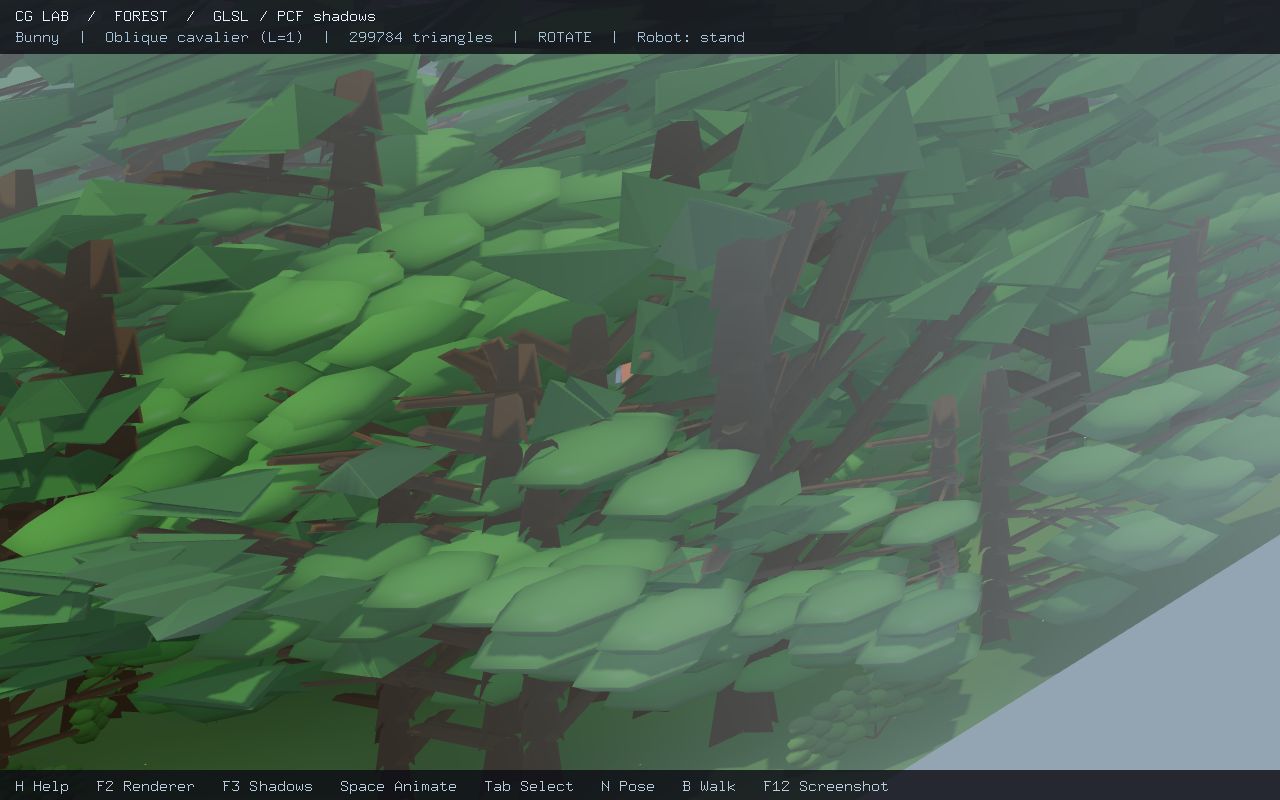
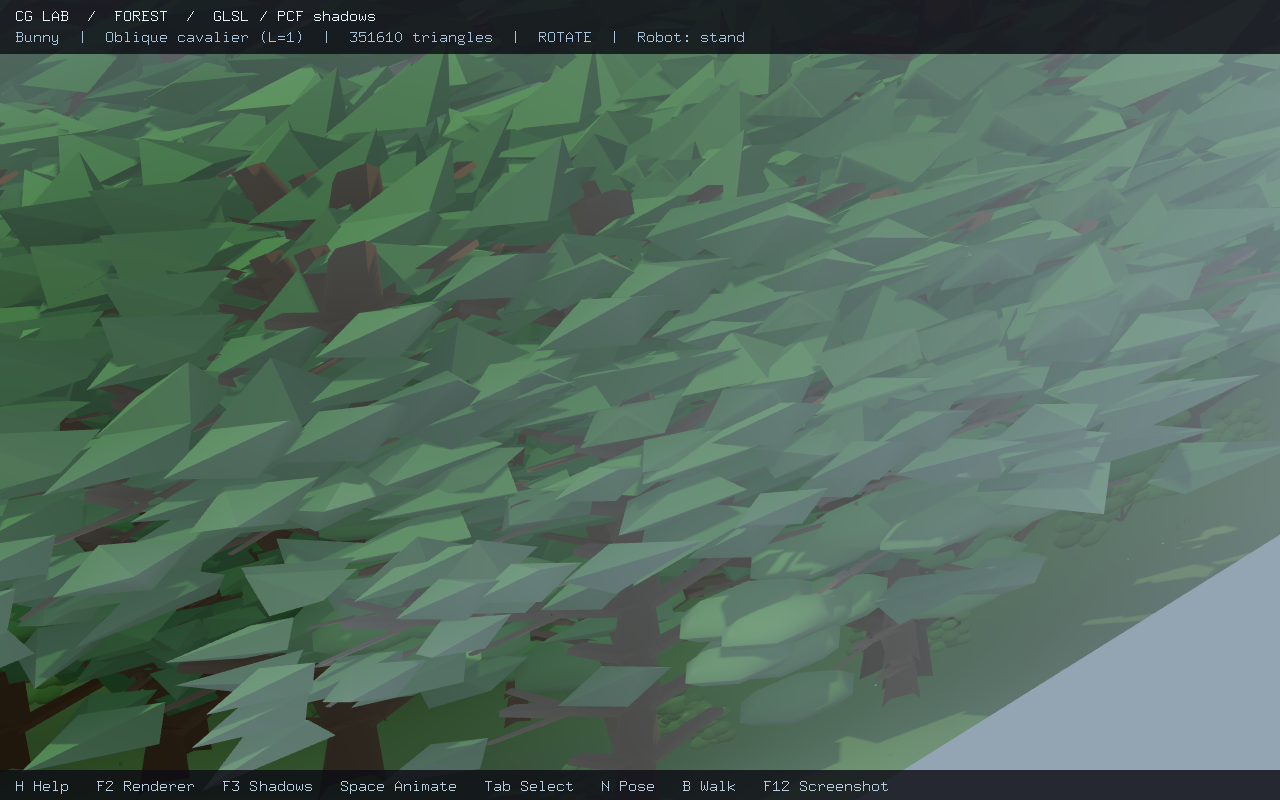
W2-5: tree branching fix, animal routes in default view, forest redraw timer, ignore build dirs
- L-system: whorled conifer + 120-degree broadleaf, deterministic roll
- deer/fox routes moved into the default camera view and off the bunny
- 30Hz redraw timer for forest animation, guarded against duplicate chains
- .gitignore: inline comments invalidated build/ patterns; fixed
- selftest 21/21, W2 evidence regenerated

diff --git a/src/forest.cpp b/src/forest.cpp
@@ -213,17 +213,24 @@ struct LTreeRule
     float       leafCol[3];
 };
 
-// 三套物种预设：迭代代数在 3 上下，展开后每棵树约 40~70 段枝
+// 三套物种预设。
+// 注意符号顺序必须是「先翻滚 / 、后俯仰 &」：翻滚改变的是俯仰所绕的轴，
+// 先转轴再低头，同一层的分支才会朝不同方位展开（轮生）；写反了所有枝条
+// 会伸向同一方向，整棵树退化成一把梳子（2026-11-14 实测教训）。
+// / 确定性 ±120° 不加抖动：连续多个 / 需要精确累计 360° 才能均分方位，
+// 抖动只放在 +-&^ 的角度幅值上。
 const LTreeRule kConifer = {
-    "F", "F[&F][&/F]F", 3, 30.0f, 0.86f, 0.66f, 0.085f, true,
+    // 每层：主干续一段 + 三枝轮生（方位角 0°/120°/240°）再低头
+    "F", "F[/&F][//&F][///&F]F", 3, 32.0f, 0.86f, 0.70f, 0.075f, true,
     { 0.21f, 0.14f, 0.07f }, { 0.10f, 0.26f, 0.10f }
 };
 const LTreeRule kBroadleaf = {
-    "F", "F[+&F][-&F]F", 3, 40.0f, 0.84f, 0.62f, 0.16f, false,
+    // 两枝分叉（方位差 120°）+ 主干续段，下一代继承已转的坐标系 → 冠幅自然错开
+    "F", "F[/+&F][//-&F]F", 3, 38.0f, 0.84f, 0.62f, 0.17f, false,
     { 0.26f, 0.18f, 0.10f }, { 0.15f, 0.35f, 0.12f }
 };
 const LTreeRule kBush = {
-    "[F][+F][-F]", "F[+F][-F]F", 2, 44.0f, 0.80f, 0.70f, 0.13f, false,
+    "[F][+F][-F]", "F[/+&F][//-&F]F", 2, 44.0f, 0.80f, 0.72f, 0.14f, false,
     { 0.24f, 0.17f, 0.09f }, { 0.18f, 0.33f, 0.10f }
 };
 
@@ -323,7 +330,7 @@ void buildFractalTree(MeshData& out, Rng& rng, const LTreeRule& rule, int depth)
             const float jit = 1.0f + rng.range(-0.12f, 0.12f);
             const Vec3 p1 = t.pos + t.heading * (t.len * jitterL);
 
-            const float leafy = (t.depth >= leafDepth - 1) ? 0.45f : 1.0f;   // 末梢细一些
+            const float leafy = (t.depth >= leafDepth - 1) ? 0.6f : 1.0f;   // 末梢略细
             addSegment(out, t.pos, p1, t.radius * leafy, t.radius * leafy * 0.7f,
                        rule.trunkCol, sides);
 
@@ -363,8 +370,8 @@ void buildFractalTree(MeshData& out, Rng& rng, const LTreeRule& rule, int depth)
         case '-': yaw( -angle * rng.range(0.85f, 1.15f)); break;
         case '&': pitch( angle * rng.range(0.85f, 1.15f)); break;
         case '^': pitch(-angle * rng.range(0.85f, 1.15f)); break;
-        case '/': roll( 120.0f * rng.range(0.6f, 1.4f));  break;   // 三分支错开约 120°
-        case '\\': roll(-120.0f * rng.range(0.6f, 1.4f)); break;
+        case '/': roll( 120.0f); break;      // 确定性：多符号累计需精确均分方位
+        case '\\': roll(-120.0f); break;
         case '[':
             stack.push_back(t);
             t.len    *= rule.lenShrink;

diff --git a/src/app.cpp b/src/app.cpp
@@ -56,7 +56,11 @@ struct PreviewState
 };
 PreviewState g_preview;
 
-void previewTick(int) { glutPostRedisplay(); }
+// 定时器链里「已有一帧在排队」的标志。输入事件也会 glutPostRedisplay，
+// 如果每次 display 都无条件再挂一个定时器，按一次键就会多出一条并行的重绘链，
+// 连按几次后帧率成倍上涨（每个 display 又挂一个新定时器，链数只增不减）。
+bool g_tickScheduled = false;
+void previewTick(int) { g_tickScheduled = false; glutPostRedisplay(); }
 
 void finishRecording()
 {
@@ -625,7 +629,14 @@ void appDisplay()
     {
         // 预览走 60fps 定时器。不能像录制那样无条件 postRedisplay ——
         // 那会变成忙等，把 CPU 吃满。
-        glutTimerFunc(16, previewTick, 0);
+        if (!g_tickScheduled) { g_tickScheduled = true; glutTimerFunc(16, previewTick, 0); }
+    }
+    else if (g_app.sceneKind == SceneKind::Forest && (robotAlive() || animalsAlive()))
+    {
+        // 森林里有常驻动画源（机器人姿势渐变/行走、动物漫步吃草），
+        // GLUT 默认只在输入事件后重绘 —— 不持续请求帧的话，按 n/b 只能看到
+        // 渐变的第一格（看起来像"没反应"）。30Hz 足够顺滑，也不吃满 CPU。
+        if (!g_tickScheduled) { g_tickScheduled = true; glutTimerFunc(33, previewTick, 0); }
     }
 }
 

diff --git a/src/scene.cpp b/src/scene.cpp
@@ -13,14 +13,27 @@ constexpr int      kForestTrees  = 150;
 constexpr float    kForestClear  = 7.0f;
 constexpr unsigned kForestSeed   = 20260924u;
 
-// 采样兔子的漫游路线（种树避让 + 重建时保持一致）
+// 采样兔子的漫游路线（种树避让 + 重建时保持一致）。
+// 小动物的绕圈路线同样纳入避让，否则树会长在动物散步的路径上、挡住视线。
 void buildForestPath(std::vector<Vec3>& path)
 {
     path.clear();
-    path.reserve(722);
+    path.reserve(722 + 64);
     for (int i = 0; i <= 720; ++i)
         path.push_back(roamPath(0.02f * (float)i));       // 覆盖 0 ~ 14.4 秒
     path.push_back(v3(0.0f, 0.0f, 0.0f));                 // 林间空地（机器人+默认机位）
+
+    // 鹿与狐狸的绕圈路线（圆心/半径与 animals.cpp 的 kDefs 一致）
+    const float circles[][3] = {
+        { -3.5f,  0.5f, 1.8f },     // Deer
+        { -5.5f, -3.0f, 1.5f },     // Fox
+    };
+    for (const auto& c : circles)
+        for (int i = 0; i < 32; ++i)
+        {
+            const float a = 2.0f * 3.14159265f * (float)i / 32.0f;
+            path.push_back(v3(c[0] + c[2] * std::cos(a), 0.0f, c[1] + c[2] * std::sin(a)));
+        }
 }
 
 // ---------------------------------------------------------------------------

diff --git a/src/animals.cpp b/src/animals.cpp
@@ -119,8 +119,13 @@ struct AnimalDef
 };
 
 const AnimalDef kDefs[] = {
-    { "Deer", -6.0f,  4.5f, 3.2f,  0.10f, 0.6f,  9.0f },
-    { "Fox",   5.5f, -5.0f, 2.6f, -0.16f, 2.1f, 12.0f },
+    // 路线圆心/半径与 scene.cpp buildForestPath 的避让圆一致（树不挡动物）。
+    // 两条路线都放在默认机位 (2.6,2.2,4.6) 的视野内、且避开兔子站位 (2.6,-1.6)：
+    // 鹿在机器人左前方，狐狸在更左后方（右侧视野被兔子占住，狐狸走到右边会被挡）。
+    // 旧的鹿圆心 (-4.5,3.2) 落在相机背后，狐狸圆又从兔子身上穿过去 ——
+    // 截图里两只动物都看不见（2026-11-14 实测）。
+    { "Deer", -3.5f,  0.5f, 1.8f,  0.10f, 0.6f,  9.0f },
+    { "Fox",  -5.5f, -3.0f, 1.5f, -0.16f, 2.1f, 12.0f },
 };
 
 // 「走 11 秒 → 吃草 4 秒」：返回从 0 到 t 实际行走的弧长对应角（吃草时冻结）

diff --git a/src/input.cpp b/src/input.cpp
@@ -205,10 +205,10 @@ void inputKeyboard(unsigned char key, int /*x*/, int /*y*/)
 
     // 机器人：姿势切换与走路循环（数字键已被视图/投影占满，用字母）
     case 'n':
-        if (robotAlive()) robotNextPose();
+        if (robotAlive()) { robotNextPose(); glutPostRedisplay(); }
         return;
     case 'b':
-        if (robotAlive()) robotToggleWalk();
+        if (robotAlive()) { robotToggleWalk(); glutPostRedisplay(); }
         return;
 
     // 森林分形参数：f 循环迭代深度 (0 → +1 → -1 → 0)，u/j 调分支角（调整即重建）

diff --git a/src/main.cpp b/src/main.cpp
@@ -314,8 +314,8 @@ int runSelfTest()
         bool ok = animalPartPosition(s, "Deer", p);
         check(ok && std::fabs(p[1]) < 0.1f, "deer stays on the ground (|y| < 0.1)");
         const float deerX0 = p[0], deerZ0 = p[2];
-        check(std::fabs(deerX0 - (-6.0f)) <= 3.2f + 0.01f &&
-              std::fabs(deerZ0 - 4.5f)  <= 3.2f + 0.01f,
+        check(std::fabs(deerX0 - (-3.5f)) <= 1.8f + 0.01f &&
+              std::fabs(deerZ0 - 0.5f)    <= 1.8f + 0.01f,
               "deer stays inside its walking circle");
 
         animalsUpdate(s, 40.0f);

diff --git a/report-assets/ai-process-log.md b/report-assets/ai-process-log.md
@@ -84,7 +84,25 @@
 ### W2-4 视图收口
 
 - 四视口 / 正交前视 / 顶视 / 斜等测 / 1540×300 超宽 / 经典管线共 6 张截图，
-  视觉复核全部通过：机器人各视口可见、无变形、无渲染错误
+  视觉复核全部通过：各视口画面稳定、窗口极端比例不变形、无渲染错误
+  （正交前视/左视的地面是**侧看平面**，地平线以下为背景色，属正常现象）
+
+### W2 收尾修正（接手复核后）
+
+- **树形文法**：针叶改三枝轮生 `F[/&F][//&F][///&F]F`、阔叶/灌木两枝错开 120°；
+  `/` 翻滚改为确定性 ±120°（连续多个 `/` 必须精确累计才能均分方位，抖动只留在
+  俯仰/偏航幅值上）。旧版写反顺序（先俯仰后翻滚）会让整棵树退化成一把梳子
+- **小动物路线重排**：旧的鹿圆心 (-4.5,3.2) 落在默认机位背后、狐狸圆恰好从
+  兔子站位 (2.6,-1.6) 穿过去，截图里两只动物都看不见。重排为鹿 (-3.5,0.5,r1.8)、
+  狐狸 (-5.5,-3.0,r1.5)，均在默认视野内且互不遮挡；种树避让圆与自检期望值同步更新
+- **常驻动画刷新**：森林里机器人的姿势渐变/行走、动物漫步都是时间的函数，
+  但 GLUT 默认只在输入事件后重绘，按 `n`/`b` 只看得到渐变第一格。新增 30Hz
+  重绘定时器；定时器带「已排队」标志，防止输入事件的 postRedisplay 与定时器
+  叠加出多条并行重绘链（否则连按几次键帧率会成倍上涨）
+- **`.gitignore`**：行尾注释不被支持，`build/`、`build32/` 等规则实际失效；
+  注释改为独立成行后 `build/` 正确忽略，工作区保持干净
+- 验证：CMake/MSBuild Release x64 零警告；selftest 21/21；W2 全部证据按新几何
+  重出（`W2-3_animals.png` 改为默认机位裁切，两只动物与机器人同框）
 
 ### 下一步（W3）
 
